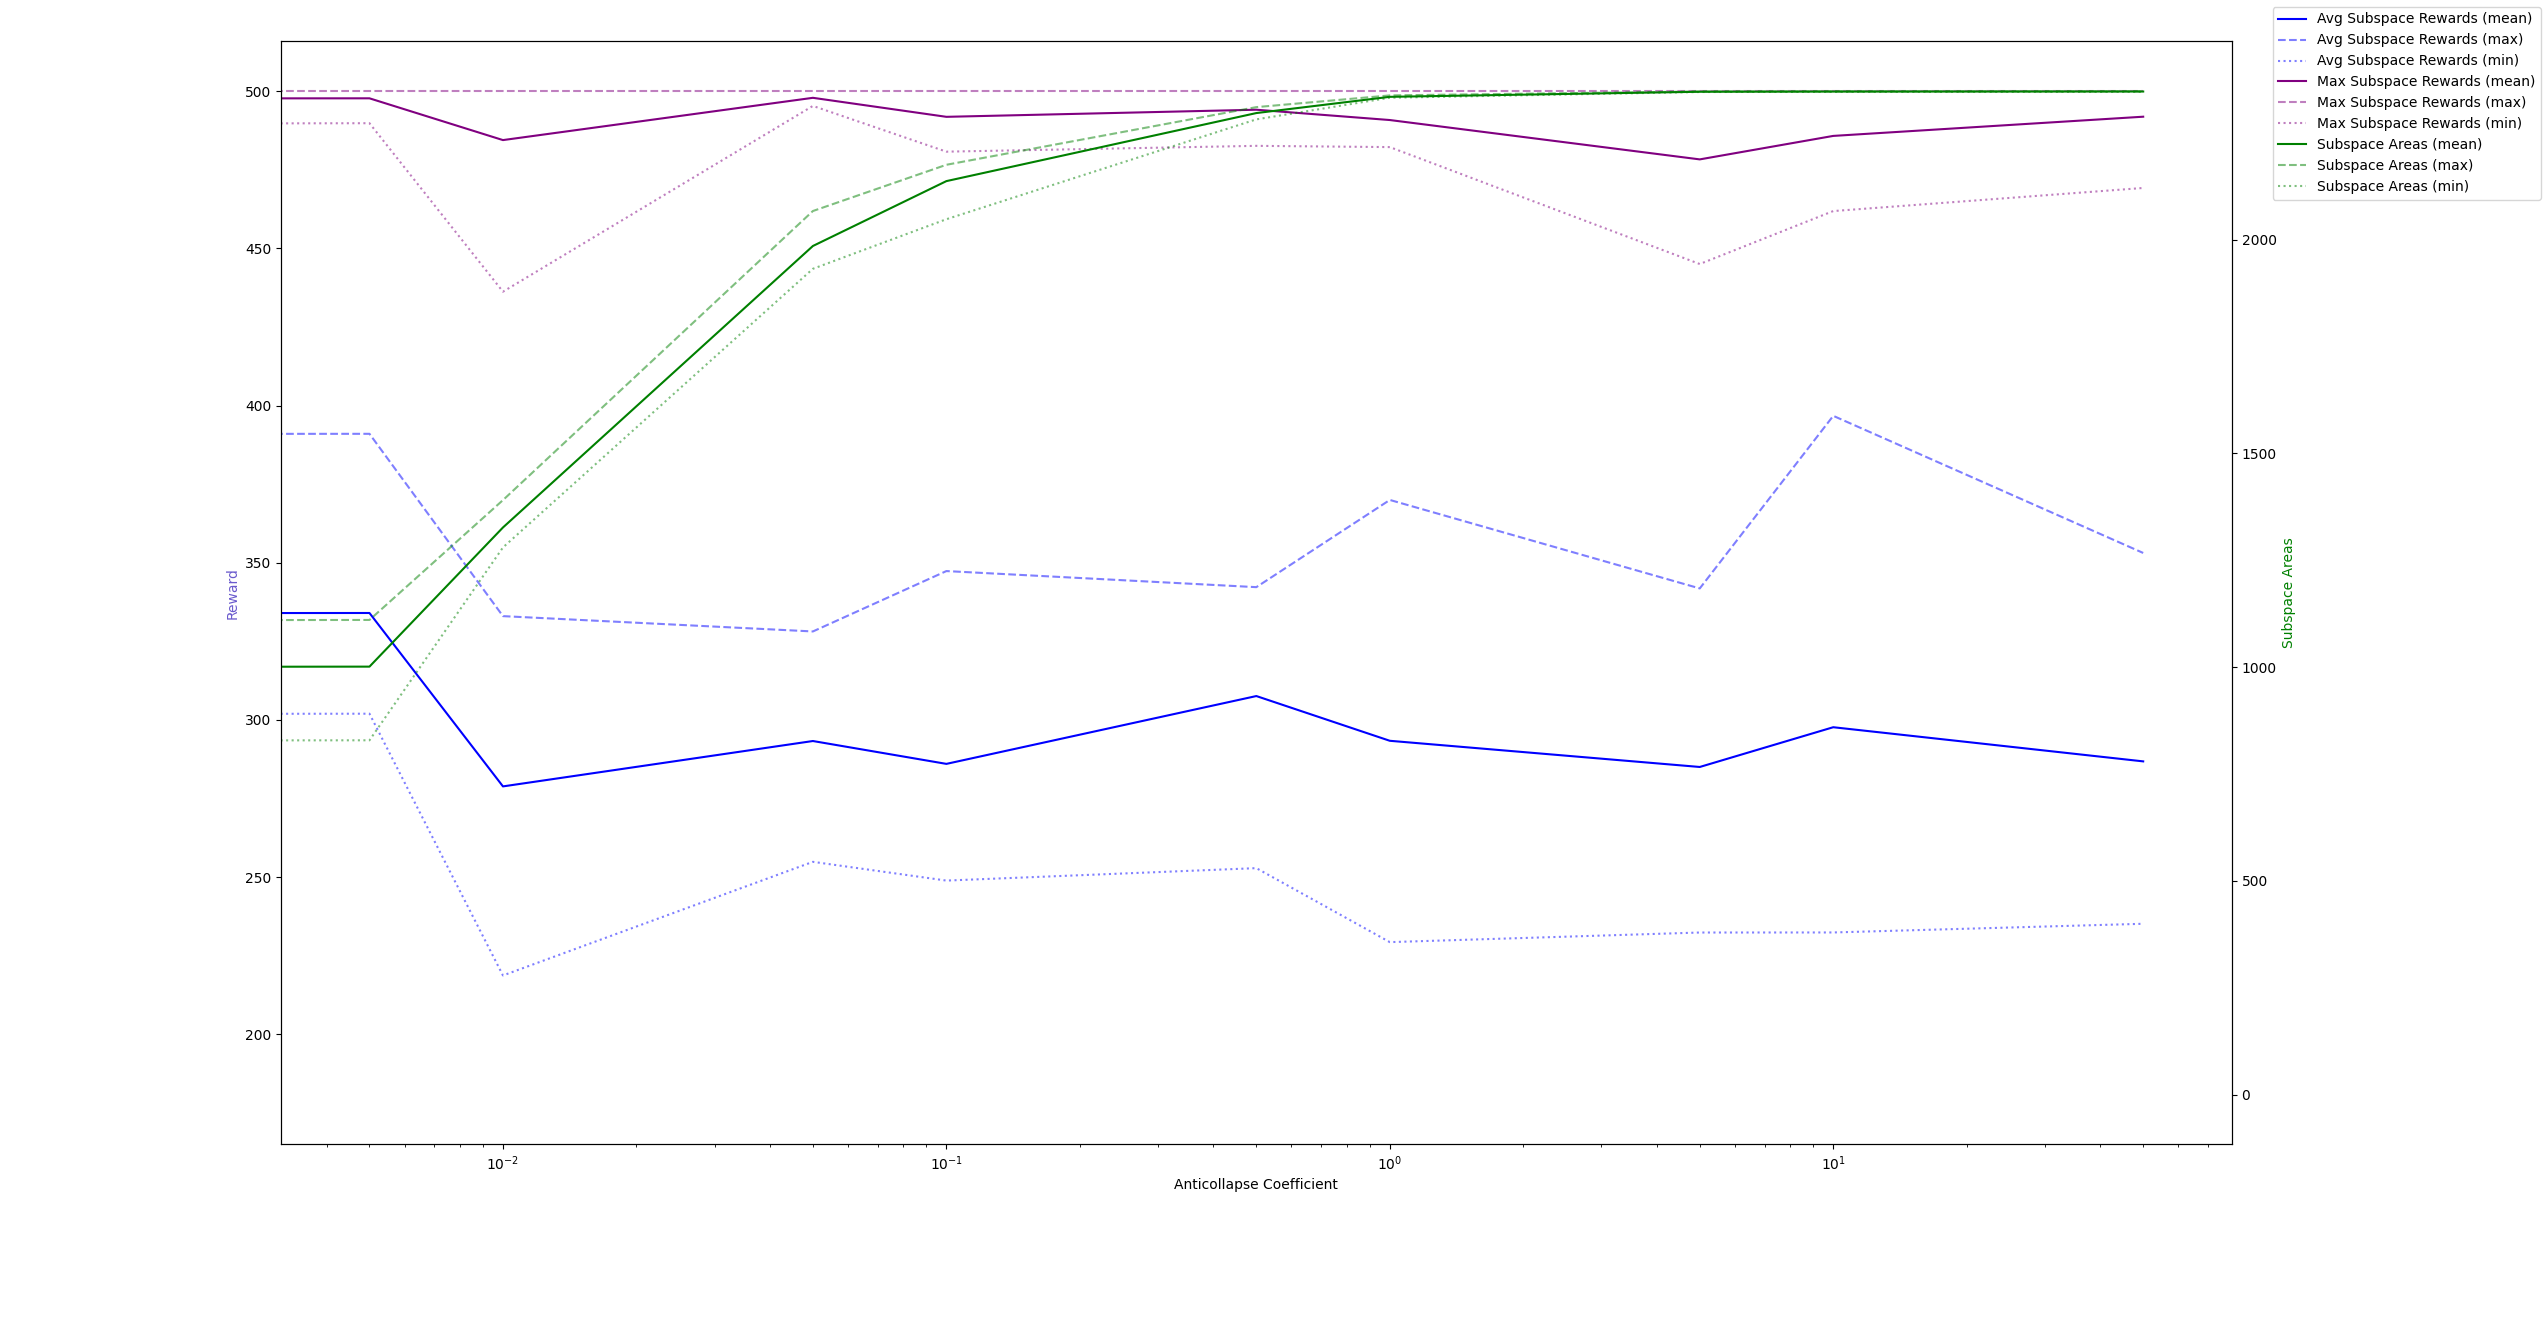
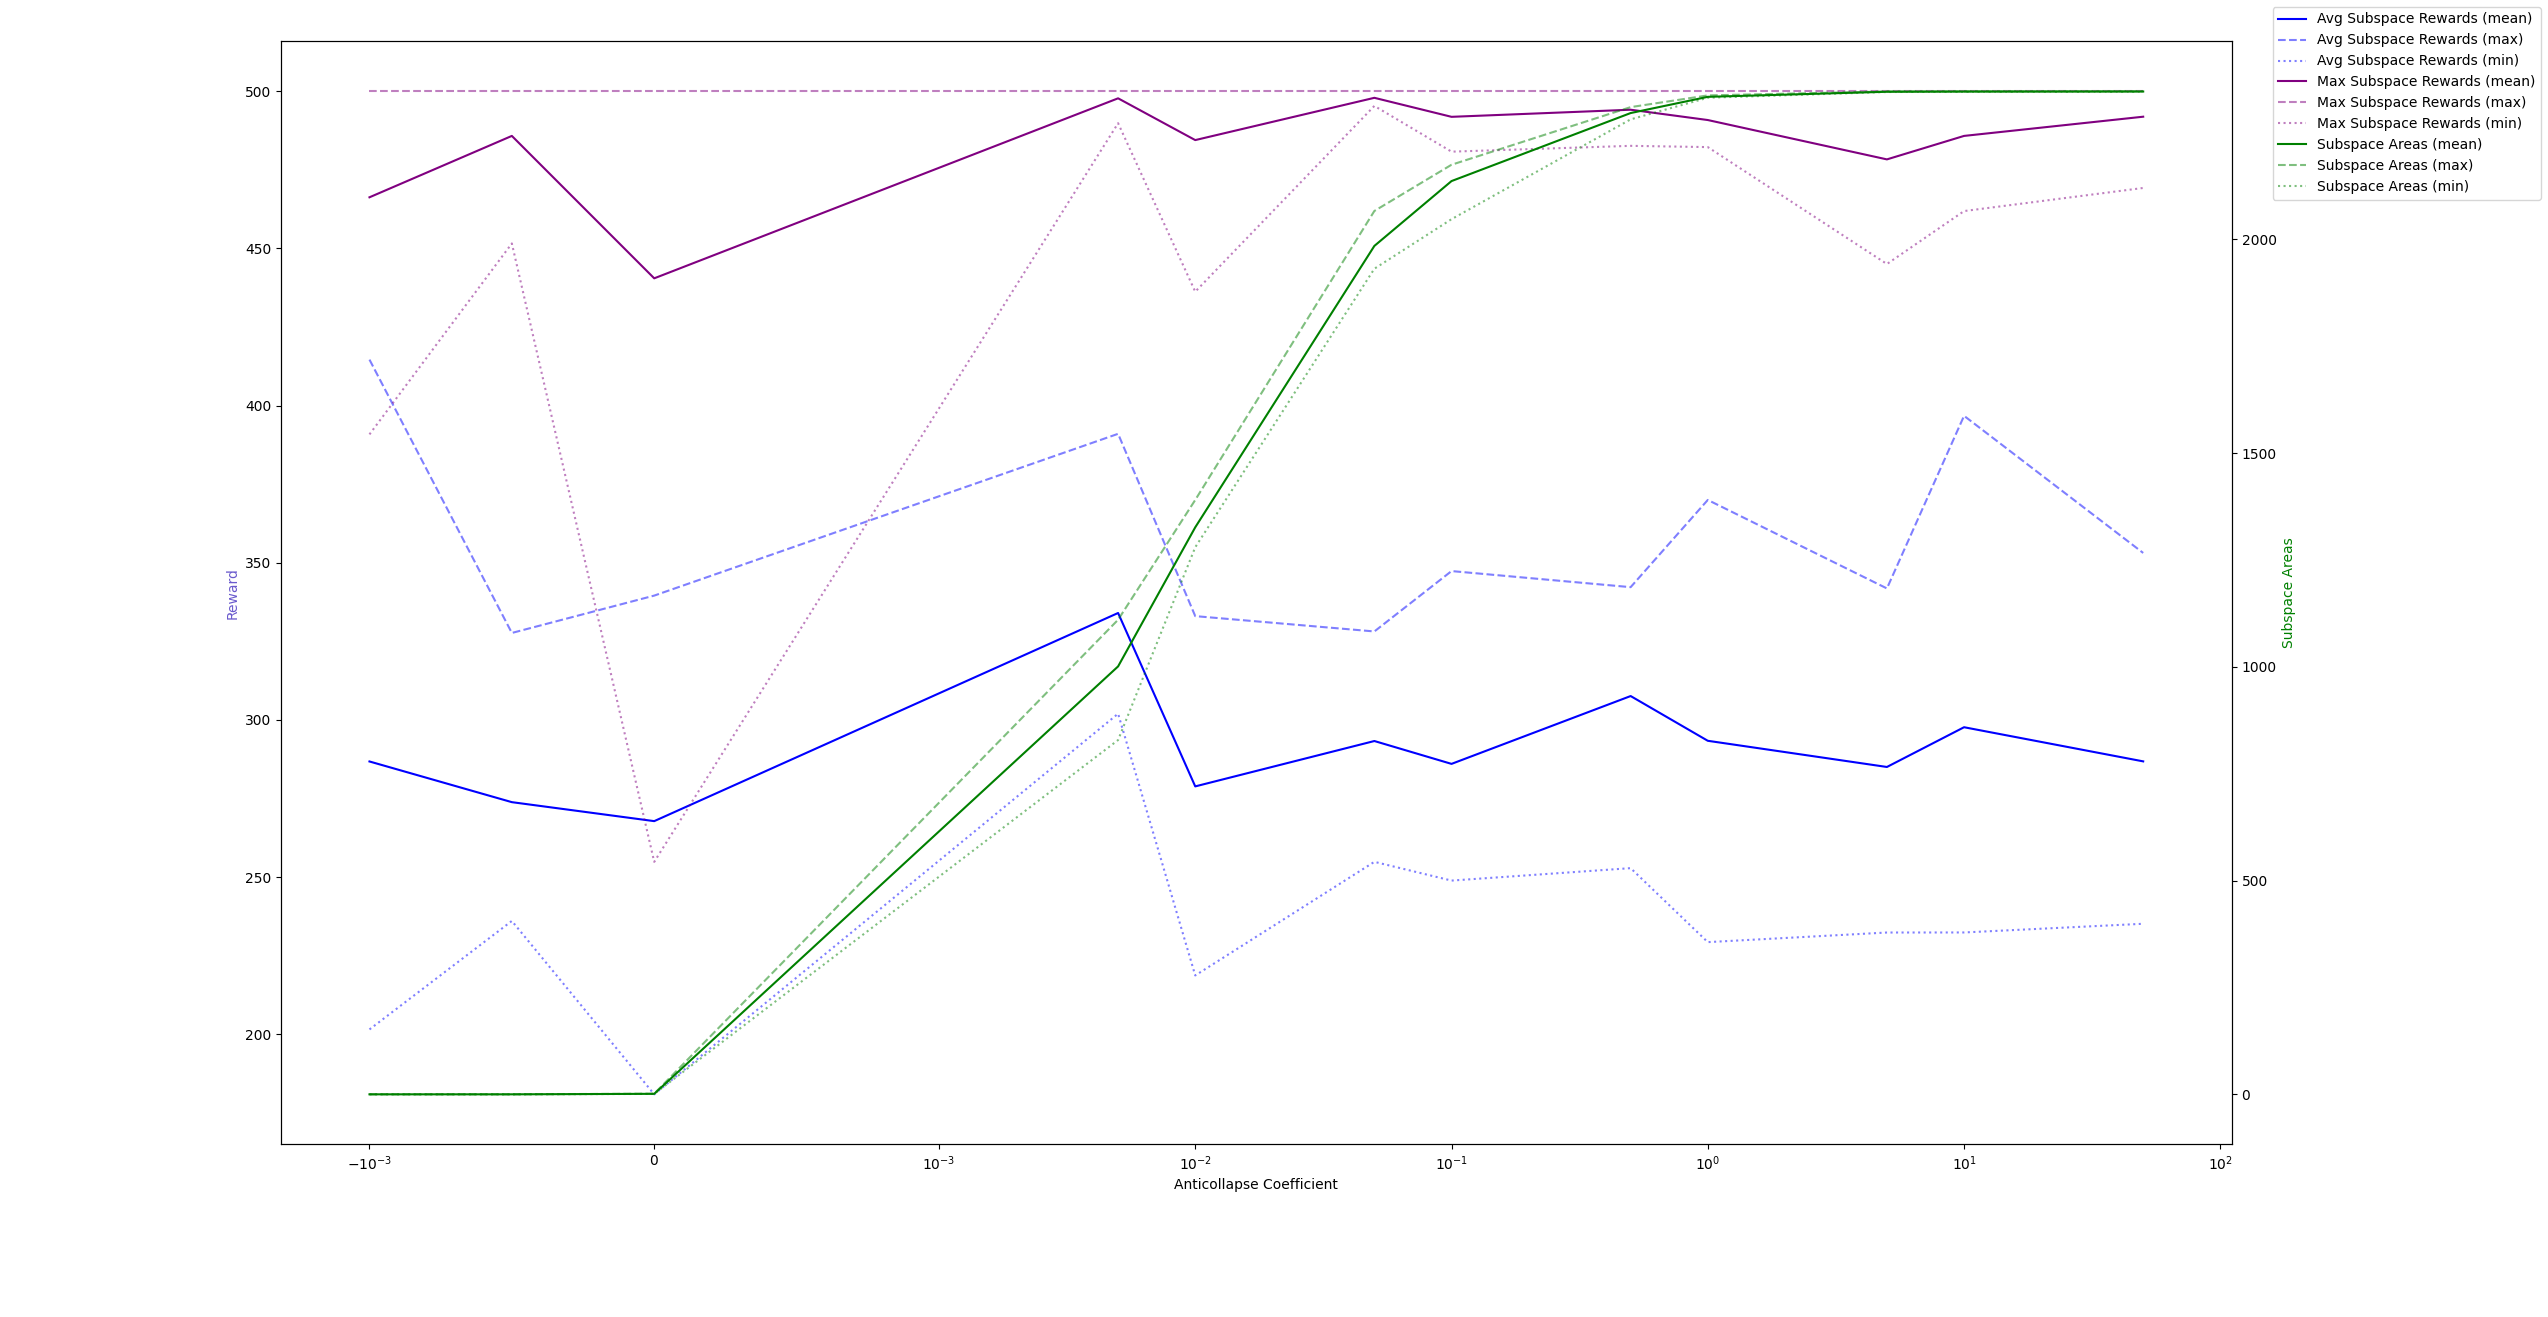
New results

diff --git a/src/bbrl_subspaces/algorithms/sac.py b/src/bbrl_subspaces/algorithms/sac.py
@@ -435,13 +435,14 @@ class SAC:
             plt.savefig(f"./figures/reward_curves/{self.env_name}_{self.name}_Reward_Curve_{date_time}.png")
 
             df = pd.DataFrame({
-                "anticollapse_coefficient":  self.cfg.algorithm.anticollapse_coef,
+                "anticollapse_coefficient":  [self.cfg.algorithm.anticollapse_coef],
                 "average_subspace_rewards": np.mean(average_subspace_rewards[-20:]),
                 "has_reached_500": any(np.isclose(average_subspace_rewards, 500.0)),
                 "max_subspace_rewards": np.mean(max_subspace_rewards[-20:]),
                 "subspace_areas": subspace_areas[-1],
-            })
-            hdr = False if os.path.isfile('filename.csv') else True
+            }).set_index("anticollapse_coefficient")
+
+            hdr = False if os.path.isfile(f"./outputs/reward_curves_{self.env_name}.csv") else True
             df.to_csv(f"./outputs/reward_curves_{self.env_name}.csv", mode="a", header=hdr)
 
         return r, actor, critic_1, critic_2, info

diff --git a/src/bbrl_subspaces/run.py b/src/bbrl_subspaces/run.py
@@ -28,6 +28,7 @@ def main(cfg):
     scenario = instantiate_class(cfg.scenario)
     stage = framework.get_stage()
     for train_task in scenario.train_tasks()[stage:]:
+        # framework.test_anticollapse_coefficients(train_task, logger, anticollapse_coefficients=[-0.001])
         framework.train(train_task, logger)
         evaluation = framework.evaluate(scenario.test_tasks(), logger)
         metrics = {}
